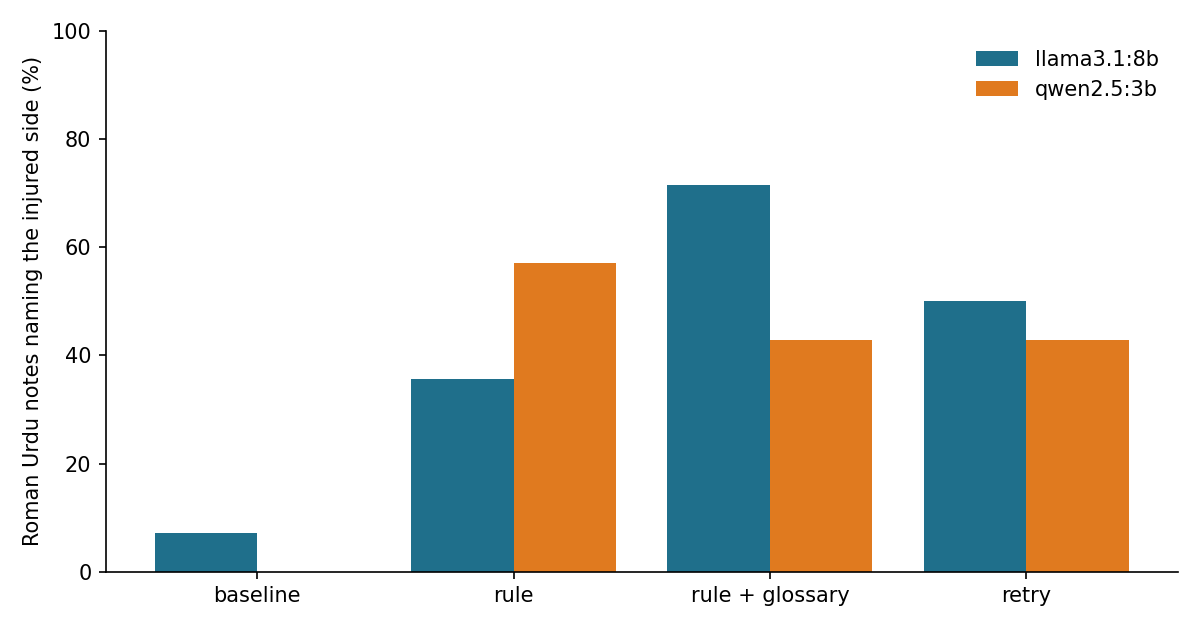
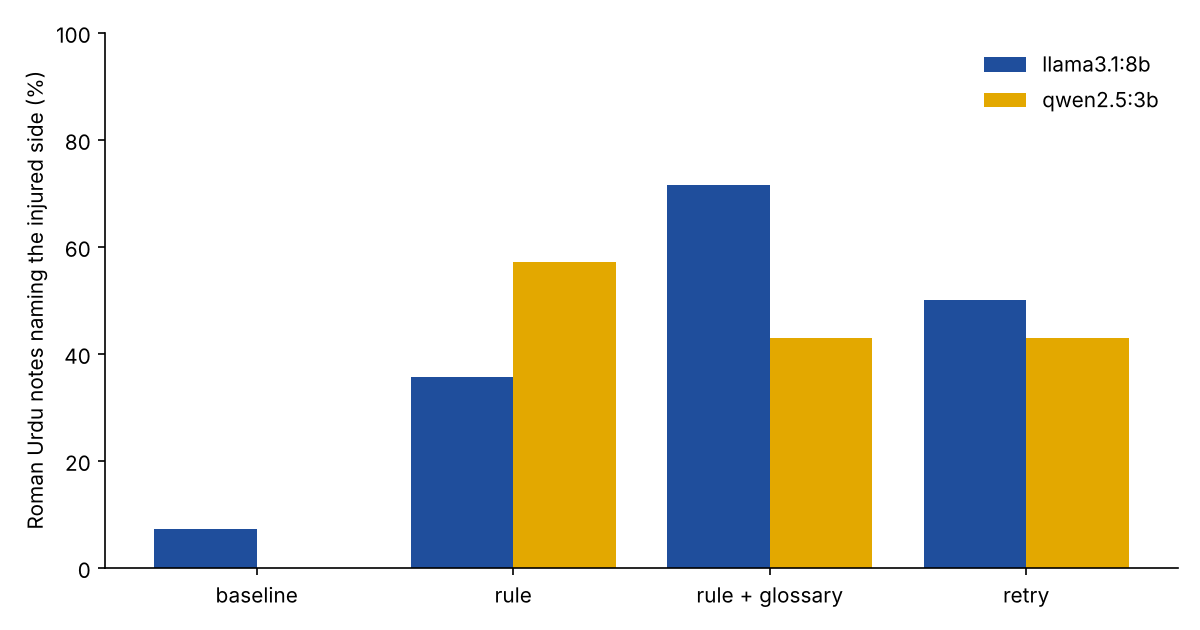
Use the house chart colours

diff --git a/whisper-urdu-wer/run_wer.py b/whisper-urdu-wer/run_wer.py
@@ -219,8 +219,8 @@ def plot(summary: List[Dict[str, float]], path: Path) -> None:
     width = 0.36
     wer = [s["wer"] * 100 for s in summary]
     cer = [s["cer"] * 100 for s in summary]
-    b1 = ax1.bar([i - width / 2 - 0.01 for i in x], wer, width, color="#2a78d6", label="WER (words)")
-    b2 = ax1.bar([i + width / 2 + 0.01 for i in x], cer, width, color="#eb6834", label="CER (characters)")
+    b1 = ax1.bar([i - width / 2 - 0.01 for i in x], wer, width, color="#1F4E9C", label="WER (words)")
+    b2 = ax1.bar([i + width / 2 + 0.01 for i in x], cer, width, color="#E3A800", label="CER (characters)")
     ax1.bar_label(b1, fmt="%.0f%%", color=ink, fontsize=9, padding=2)
     ax1.bar_label(b2, fmt="%.0f%%", color=ink, fontsize=9, padding=2)
     ax1.set_title("Error rate (lower is better)", color=ink, loc="left", fontsize=11)
@@ -229,7 +229,7 @@ def plot(summary: List[Dict[str, float]], path: Path) -> None:
     ax1.legend(frameon=False, labelcolor=ink)
 
     recall = [s["term_recall"] * 100 for s in summary]
-    b3 = ax2.bar(x, recall, 0.5, color="#1baf7a")
+    b3 = ax2.bar(x, recall, 0.5, color="#5FA65A")
     ax2.bar_label(b3, fmt="%.0f%%", color=ink, fontsize=9, padding=2)
     ax2.set_ylim(0, 105)
     ax2.set_title("Clinical key terms recovered (higher is better)", color=ink, loc="left", fontsize=11)

diff --git a/anatomy-entity-match/entity_match.py b/anatomy-entity-match/entity_match.py
@@ -171,8 +171,8 @@ def chart(summary: List[Dict[str, Any]], path: Path) -> None:
     import matplotlib.pyplot as plt
     fig, ax = plt.subplots(figsize=(7.5, 4))
     width = 0.38
-    for j, (name, col, colour) in enumerate([("Soft anatomy score", "soft_caught", "#1f6f8b"),
-                                              ("Code check", "code_caught", "#d9822b")]):
+    for j, (name, col, colour) in enumerate([("Soft anatomy score", "soft_caught", "#1F4E9C"),
+                                              ("Code check", "code_caught", "#E3A800")]):
         xs = [i + (j - 0.5) * width for i in range(len(summary))]
         vals = [100 * r[col] / r["n"] if r["n"] else 0 for r in summary]
         ax.bar(xs, vals, width, label=name, color=colour)

diff --git a/llm-omission-judge/score.py b/llm-omission-judge/score.py
@@ -102,7 +102,7 @@ def chart(agr: List[Dict[str, object]], path: Path) -> None:
         vals = [next((float(a["kappa"]) for a in agr if a["judge"] == j and a["lang"] == lang and a["kappa"] != ""), 0.0)
                 for j in judges]
         ax.bar([x + i * 0.38 for x in range(len(judges))], vals, 0.38,
-               label="English notes" if lang == "en" else "Roman Urdu notes", color=("#1f4e79", "#e07b39")[i])
+               label="English notes" if lang == "en" else "Roman Urdu notes", color=("#1F4E9C", "#E3A800")[i])
     ax.set_xticks([x + 0.19 for x in range(len(judges))])
     ax.set_xticklabels(judges)
     ax.set_ylabel("Cohen's kappa vs keyword checker")

diff --git a/side-mismatch-check/side_check.py b/side-mismatch-check/side_check.py
@@ -213,8 +213,8 @@ def chart(summary: List[Dict[str, Any]], path: Path) -> None:
     import matplotlib.pyplot as plt
     rows = [r for r in summary if r["group"] == "all"]
     labels = [r["check"] for r in rows]
-    bars = [("Unsafe notes caught", "unsafe_caught", "unsafe", "#1f6f8b"),
-            ("Safe notes flagged", "safe_flagged", "safe", "#d9822b")]
+    bars = [("Unsafe notes caught", "unsafe_caught", "unsafe", "#1F4E9C"),
+            ("Safe notes flagged", "safe_flagged", "safe", "#E3A800")]
     fig, ax = plt.subplots(figsize=(7, 4))
     width = 0.38
     for j, (name, num, den, colour) in enumerate(bars):

diff --git a/roman-urdu-soap-benchmark/summarise.py b/roman-urdu-soap-benchmark/summarise.py
@@ -106,7 +106,7 @@ def chart(table: List[Dict[str, object]], path: Path) -> None:
     models = sorted({str(r["model"]) for r in table})
     fig, ax = plt.subplots(figsize=(7, 4))
     width = 0.36
-    for i, (lang, colour) in enumerate((("English", "#0E6E6E"), ("Roman Urdu", "#B8893B"))):
+    for i, (lang, colour) in enumerate((("English", "#1F4E9C"), ("Roman Urdu", "#E3A800"))):
         rows = {str(r["model"]): r for r in table if r["language"] == lang}
         xs = [m + (i - 0.5) * width for m in range(len(models))]
         ys = [float(rows[m]["missing_pct"]) for m in models]

diff --git a/clinical-note-hallucination/summarise.py b/clinical-note-hallucination/summarise.py
@@ -53,7 +53,7 @@ def summarise(omissions: List[Dict[str, str]], review: List[Dict[str, str]]) -> 
 
 def plot(table: List[Dict[str, object]], path: Path) -> None:
     fig, axes = plt.subplots(1, 2, figsize=(9, 3.8))
-    colors = ["#2a78d6", "#eb6834"]
+    colors = ["#1F4E9C", "#E3A800"]
     panels = (("facts_missing", "Listed facts left out", "facts_listed"),
               ("hallucinated_sentences", "Unsupported sentences (labelled)", None))
     for ax, (key, title, denom) in zip(axes, panels):

diff --git a/translate-then-draft/summarise.py b/translate-then-draft/summarise.py
@@ -46,7 +46,7 @@ def summarise(om: List[Dict[str, str]], body: List[Dict[str, str]],
 
 def plot(table: List[Dict[str, object]], path: Path) -> None:
     models = sorted({str(r["model"]) for r in table})
-    colors = {"en-direct": "#2a78d6", "ru-direct": "#eb6834", "ru-translate": "#1f9e75"}
+    colors = {"en-direct": "#1F4E9C", "ru-direct": "#E3A800", "ru-translate": "#5FA65A"}
     fig, ax = plt.subplots(figsize=(8, 3.8))
     width = 0.26
     for i, cond in enumerate(CONDITIONS):

diff --git a/injured-side-rule/side_summary.py b/injured-side-rule/side_summary.py
@@ -89,7 +89,7 @@ def chart(tab: List[Dict[str, object]], path: Path) -> None:
     conds = [c for c in ORDER if any(r["condition"] == c for r in tab)]
     fig, ax = plt.subplots(figsize=(8, 4.2))
     width = 0.8 / max(1, len(models))
-    colours = ["#1f6f8b", "#e07a1f", "#6a8d2f"]
+    colours = ["#1F4E9C", "#E3A800", "#5FA65A"]
     for i, m in enumerate(models):
         vals = []
         for c in conds:
